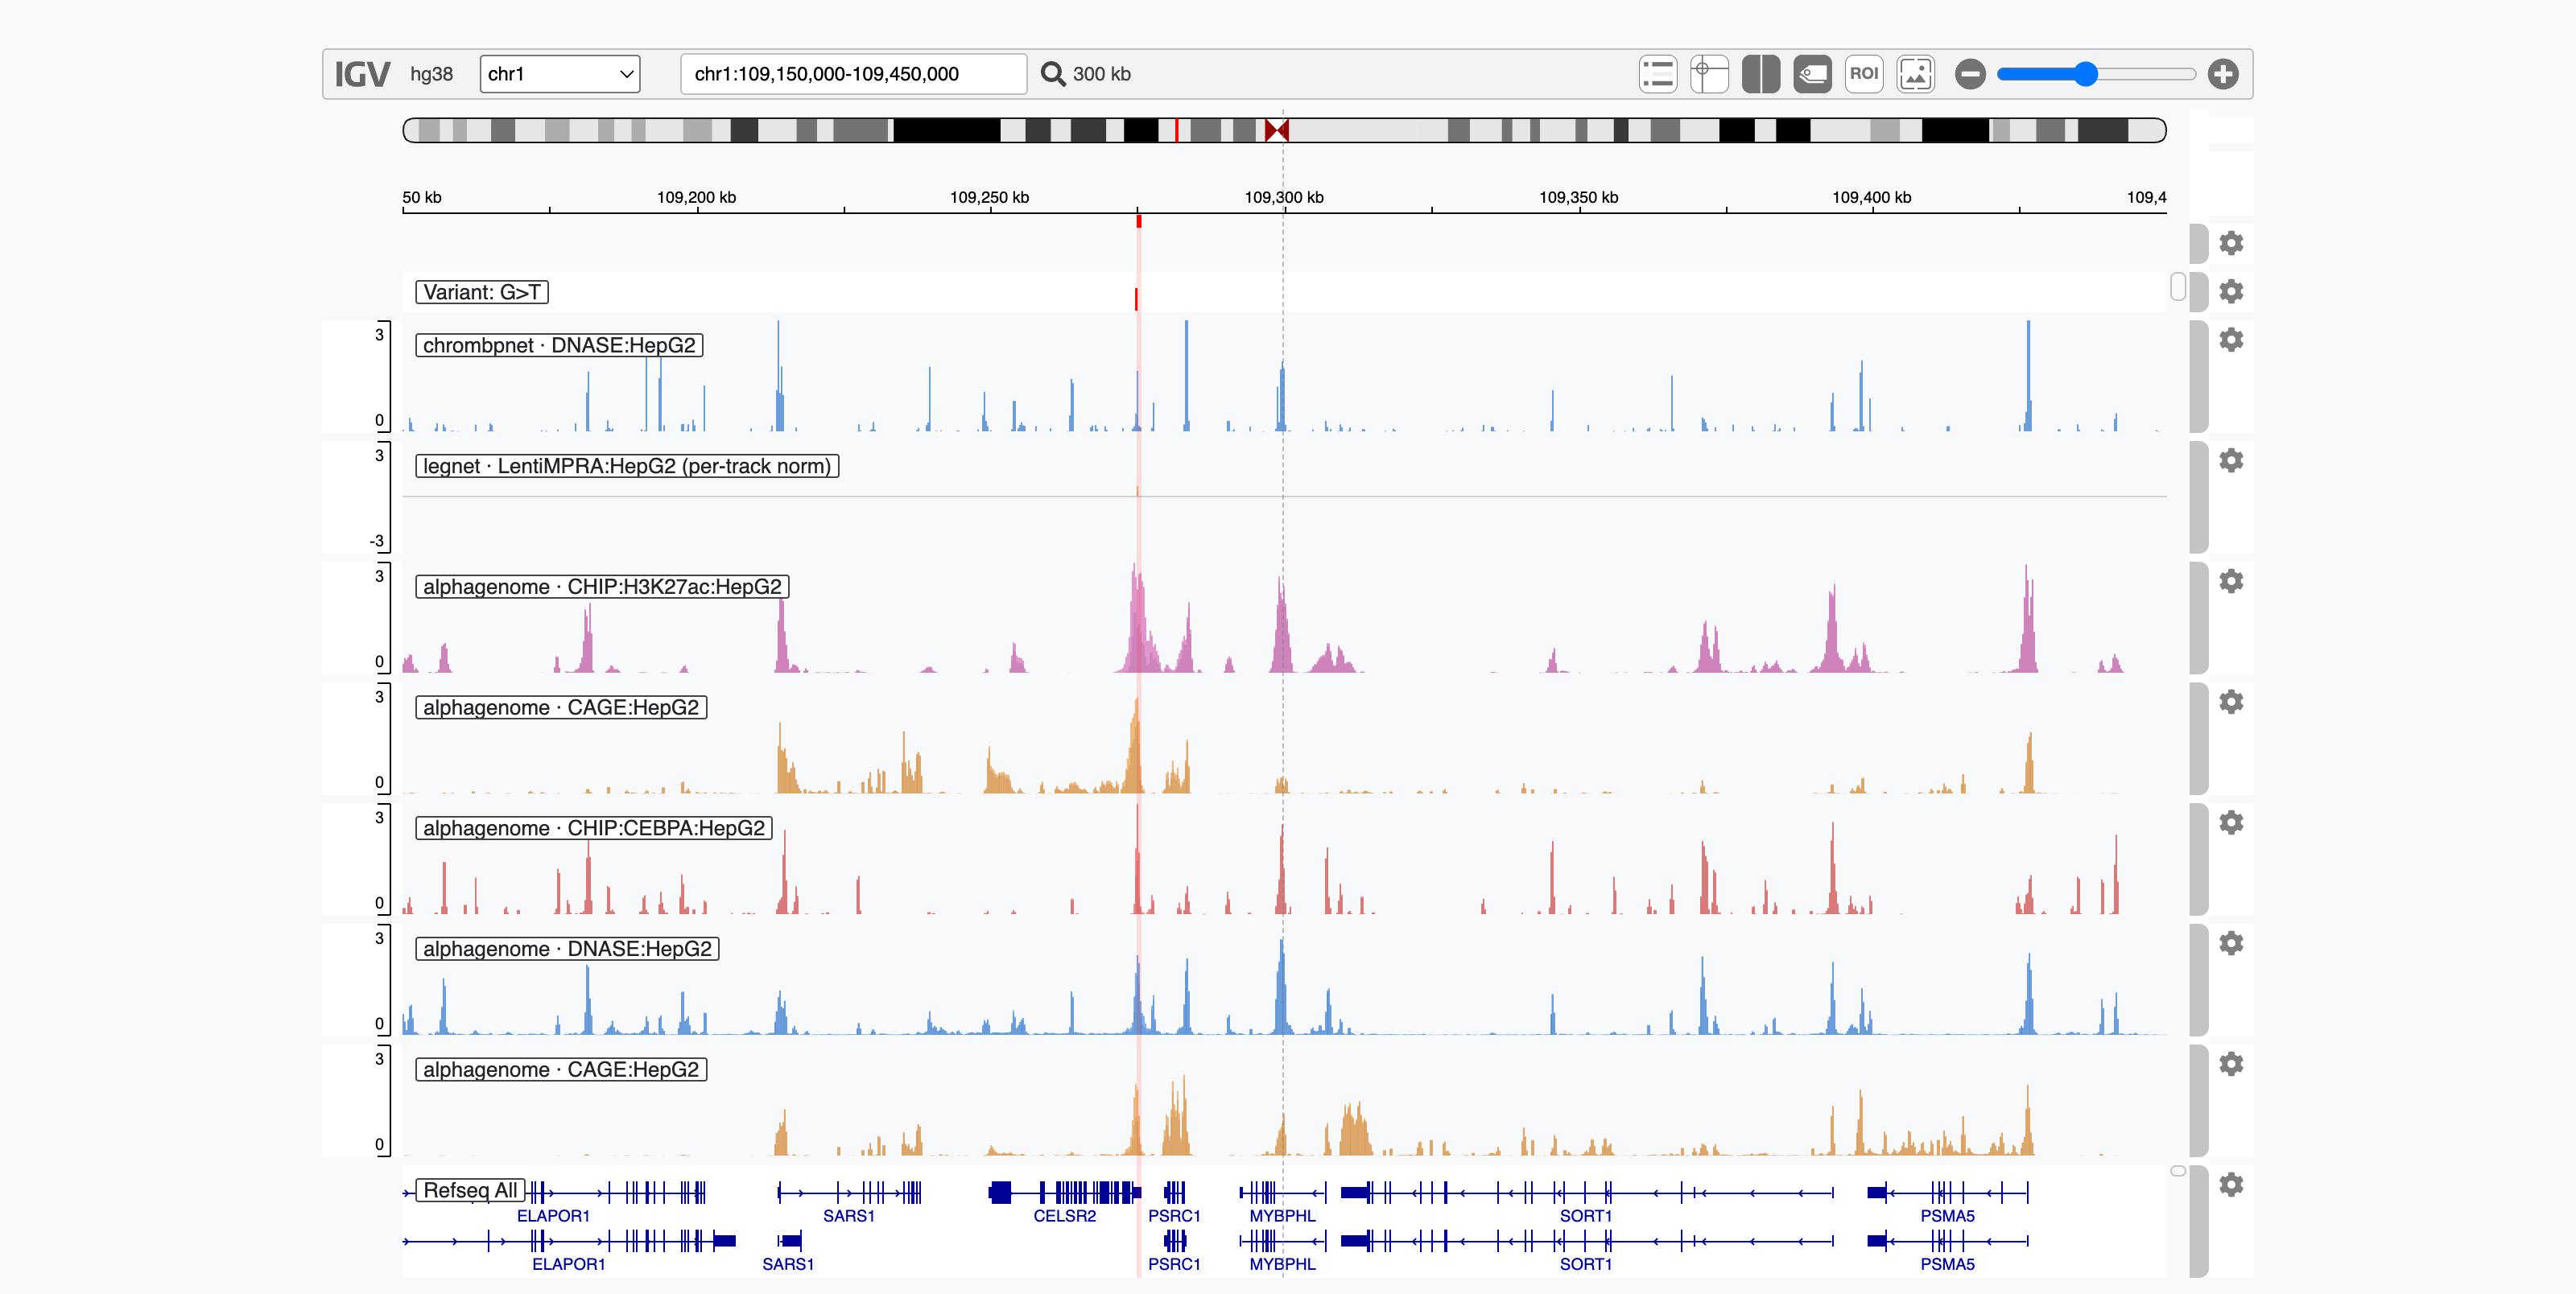
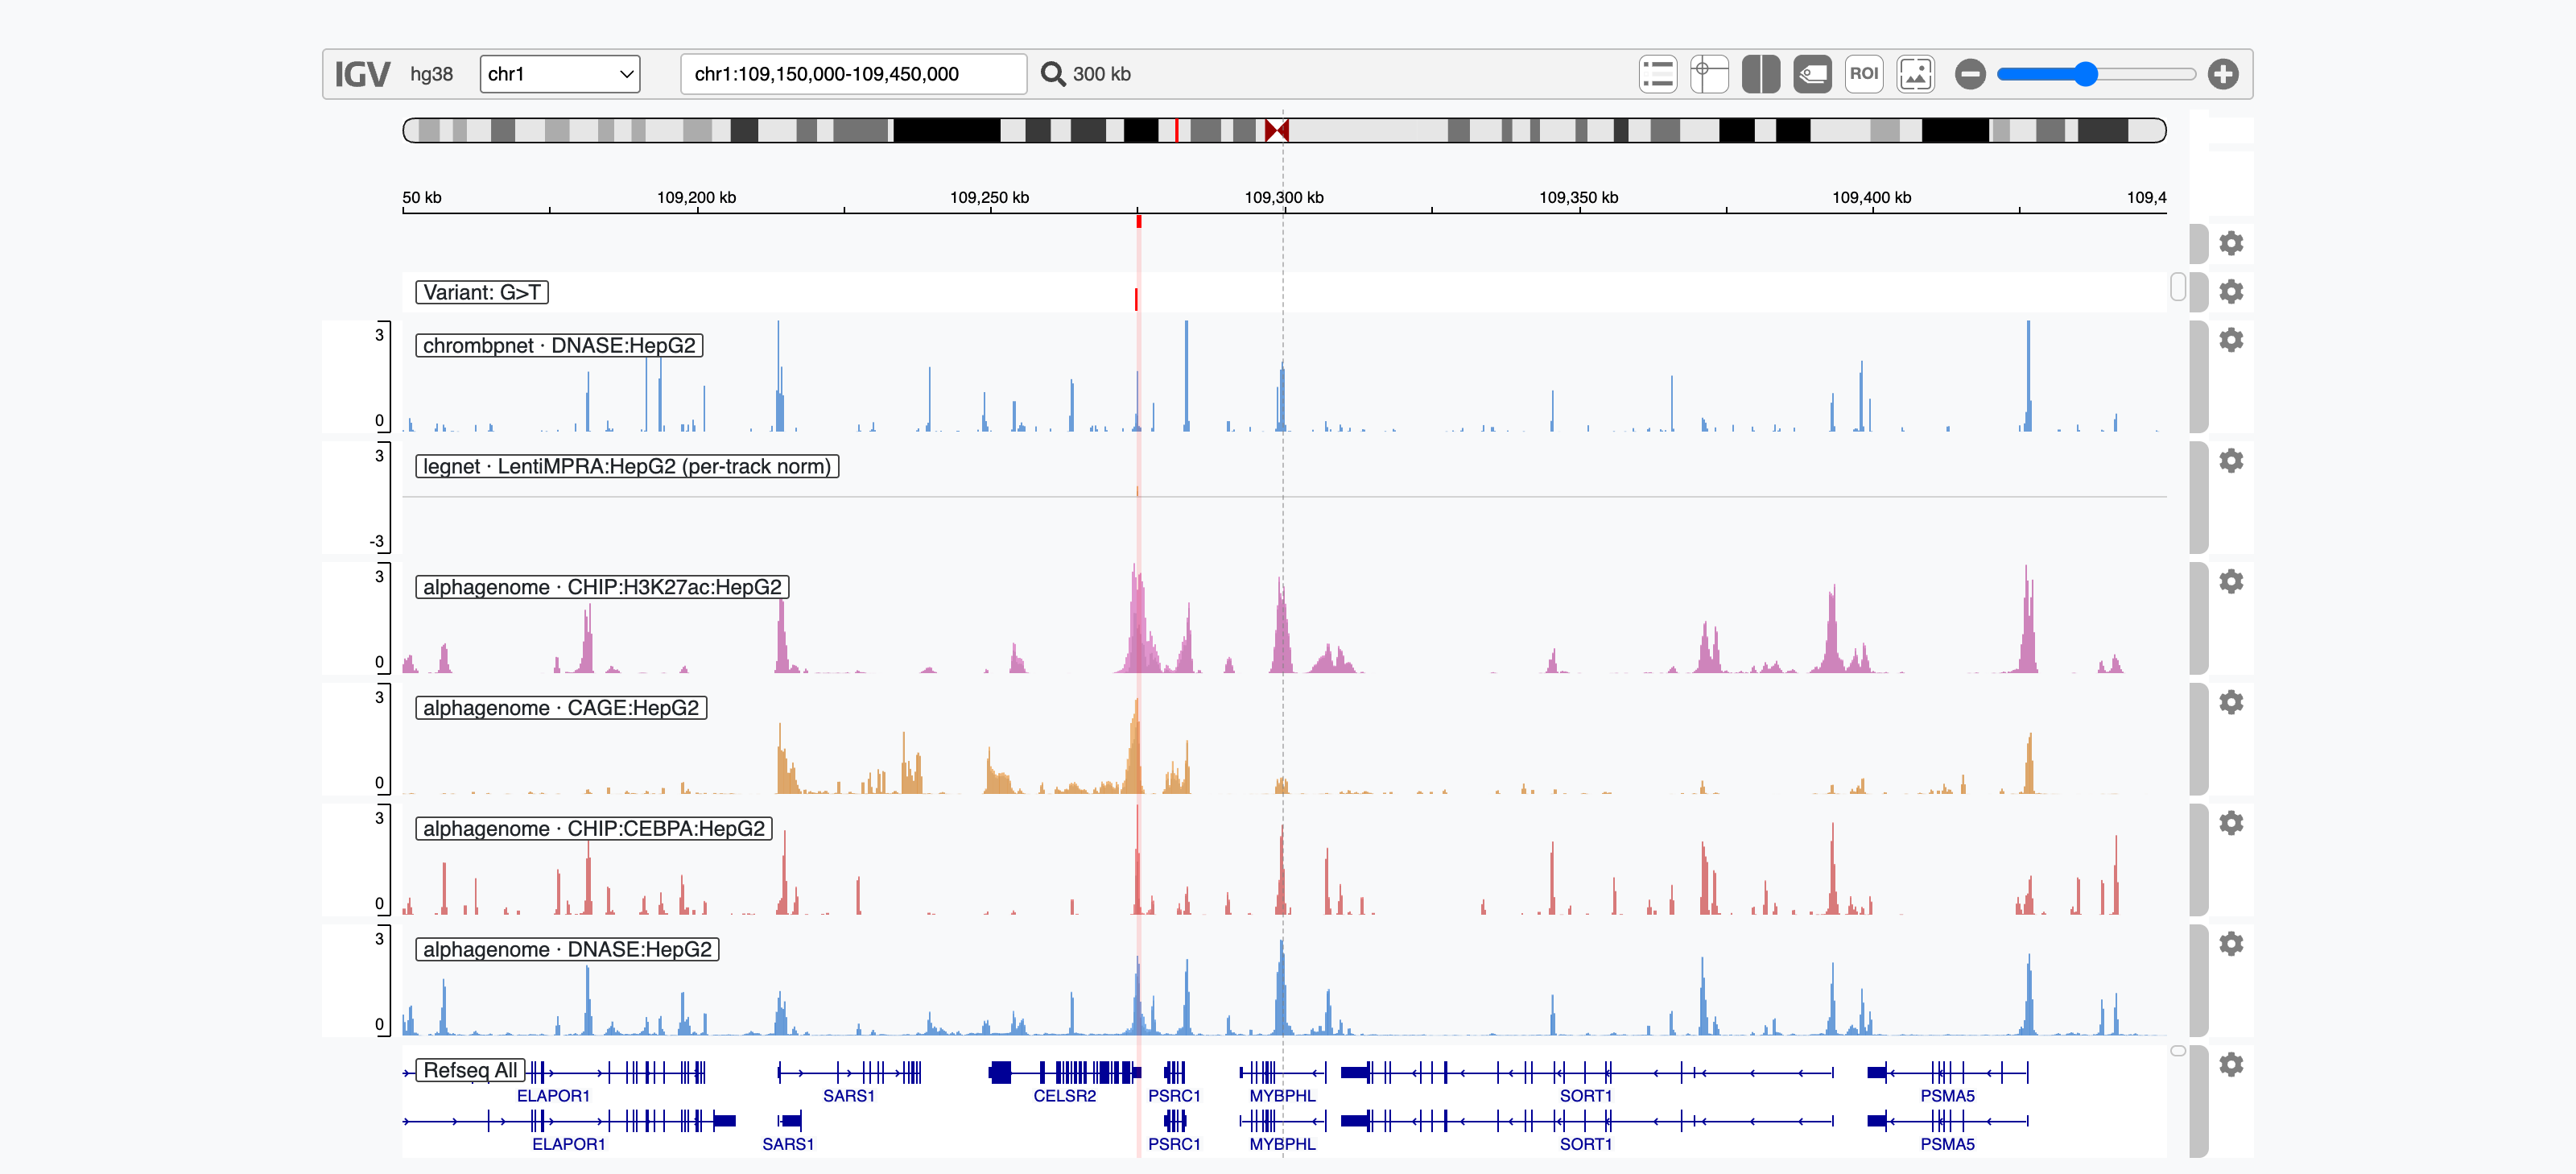
Critical-review pass: dedup Fig 3 vs table, fix figure defects, tighten prose (#1)
Applied two adversarial review workflows (figure quality, prose flow,
cross-file consistency) over the SORT1 + rs9504151 worked examples.

Figures:
- Fig 1 (architecture): badge 23->24 tools; re-rendered from the committed
  fig_architecture.html so it reproduces from source (was a one-off export).
- Fig 3 (comparison): cropped 55% baked-in trailing whitespace (3588->1660px);
  AlphaGenome CEBPA +2.7->+2.8 to match the reproduced value and Fig 2.
- Fig 4 (browser): excised a duplicate alphagenome-CAGE:HepG2 track the
  consolidated report listed twice; track set now matches the caption.

Prose / consistency:
- Removed the "Predictions next to ground truth" markdown table (it duplicated
  Fig 3 verbatim); repointed prose to Figure 3, no renumbering.
- Compressed both "Reproducibility note" blockquotes (commit/PR detail -> linked
  report; honest disclosures kept).
- Dropped the triplicated magnitude caveat from Limitations; removed orphaned
  "n=1 entries" references left by the table removal.
- Added Jiecong Lin to the citation byline; claims (Fig 5)->(Fig 6);
  README "56 CEU SNV proxies"->"56 CEU proxies".

Verified: no large white-space gaps in the rendered page; all figure captions
match their images; 24 tools / CEBPA +2.8 / author list consistent across
article, figures, and claims.yaml.

diff --git a/figures/fig2_sort1.html b/figures/fig2_sort1.html
@@ -91,7 +91,7 @@
       </tr>
       <tr>
         <td class="layer">TF binding — C/EBP <small>ChIP-TF · HepG2</small></td>
-        <td><span class="val up">+2.5</span> BPNet (CEBPB) &nbsp;·&nbsp; <span class="val up">+2.7</span> AlphaGenome (CEBPA) <span class="src">log2FC</span></td>
+        <td><span class="val up">+2.5</span> BPNet (CEBPB) &nbsp;·&nbsp; <span class="val up">+2.8</span> AlphaGenome (CEBPA) <span class="src">log2FC</span></td>
         <td><span class="pill up">gains site ↑</span></td><td></td>
       </tr>
       <tr>
@@ -122,7 +122,7 @@
       <div class="head">What the predictions say</div>
       <ul>
         <li>Minor (T) allele <b>opens chromatin</b> in liver (HepG2): ChromBPNet <span class="n">+1.24</span>, AlphaGenome <span class="n">+1.34</span>.</li>
-        <li><b>Gains a C/EBP binding site</b>: BPNet CEBPB head <span class="n">+2.5</span>, AlphaGenome CEBPA <span class="n">+2.7</span>.</li>
+        <li><b>Gains a C/EBP binding site</b>: BPNet CEBPB head <span class="n">+2.5</span>, AlphaGenome CEBPA <span class="n">+2.8</span>.</li>
         <li><b>Gains the H3K27ac</b> active-enhancer mark: AlphaGenome <span class="n">+1.27</span>.</li>
         <li><b>eRNA at the enhancer</b>: AlphaGenome CAGE <span class="n">+1.52</span>.</li>
         <li><b>Single-fragment MPRA at the SNP is up</b>: LegNet <span class="n">+0.30</span>, alt &gt; ref.</li>

diff --git a/figures/fig_architecture.html b/figures/fig_architecture.html
@@ -4,7 +4,7 @@
   (fig_architecture.dc.html) and flattened to a standalone, self-contained HTML so it
   renders without the design runtime. Assets: logo_burst.png, logo_wordmark.png.
   Render:  python /path/to/shot.py fig_architecture.html fig_architecture.png 1600
-  Fixed 1600x1080 canvas; all seven oracles incl. EPInformer-seq; 23-tool MCP layer.
+  Fixed 1600x1080 canvas; all seven oracles incl. EPInformer-seq; 24-tool MCP layer.
 -->
 <html lang="en">
 <head>
@@ -38,7 +38,7 @@
       <span style="display:inline-block; width:11px; height:11px; border-radius:50%; background:#fff; box-shadow:0 0 12px rgba(255,255,255,0.9);"></span>
       <span style="font-size:25px; font-weight:800; letter-spacing:0.2px;">Agentic AI orchestration</span>
       <span style="font-size:13px; font-weight:800; letter-spacing:0.6px; background:rgba(255,255,255,0.20); border:1px solid rgba(255,255,255,0.35); border-radius:30px; padding:4px 13px;">MCP&nbsp;SERVER</span>
-      <span style="font-size:13px; font-weight:800; letter-spacing:0.6px; background:#fff; color:#2B5FA0; border-radius:30px; padding:4px 13px;">23&nbsp;TOOLS</span>
+      <span style="font-size:13px; font-weight:800; letter-spacing:0.6px; background:#fff; color:#2B5FA0; border-radius:30px; padding:4px 13px;">24&nbsp;TOOLS</span>
       <span style="margin-left:auto; font-size:14.5px; font-weight:600; color:rgba(255,255,255,0.92);">Plain language in &nbsp;→&nbsp; comparable, normalised results out</span>
     </div>
     <div style="display:flex; gap:12px; margin-top:15px;">

diff --git a/article/2026-006_chorus.md b/article/2026-006_chorus.md
@@ -147,7 +147,7 @@ The strongest signal came from the **C/EBP** family. We gave no prior about whic
 
 The top hit was **SORT1**, with increased predicted promoter and transcript signal in HepG2.
 
-This step is worth pausing on, because it is the one place where the choice of oracle is not optional. As noted above, rs12740374 sits between CELSR2 and PSRC1, and the SORT1 promoter is on the order of 100 kb away (≈118 kb to the nearest SORT1 TSS in hg38). That distance is far outside the windows of the short-range oracles: ChromBPNet sees about 2 kb and LegNet 200 bp, so neither can connect this variant to SORT1 at all, and even Enformer's roughly 115 kb output window is marginal here (118 kb is just past its 114.7 kb output window). Only a long-context model can span both the variant and the gene, so the gene-level readout comes from AlphaGenome, whose 1 Mb window comfortably covers SORT1. This is exactly why, in the multi-oracle table below, ChromBPNet and LegNet read "not scored" for the gene layer: not because they failed, but because the question is outside what they were built to see.
+This step is worth pausing on, because it is the one place where the choice of oracle is not optional. As noted above, rs12740374 sits between CELSR2 and PSRC1, and the SORT1 promoter is on the order of 100 kb away (≈118 kb to the nearest SORT1 TSS in hg38). That distance is far outside the windows of the short-range oracles: ChromBPNet sees about 2 kb and LegNet 200 bp, so neither can connect this variant to SORT1 at all, and even Enformer's roughly 115 kb output window is marginal here (118 kb is just past its 114.7 kb output window). Only a long-context model can span both the variant and the gene, so the gene-level readout comes from AlphaGenome, whose 1 Mb window comfortably covers SORT1. This is exactly why, in the multi-oracle readout in Figure 3, ChromBPNet and LegNet read "not scored" for the gene layer: not because they failed, but because the question is outside what they were built to see.
 
 At that point the mechanistic story had assembled itself through conversation: the minor allele opens chromatin in liver cells, creates a C/EBP site, and upregulates *SORT1*. To make the result robust rather than a single model's opinion, we then scored the variant across three independent oracles, each contributing only the layers it can actually measure: ChromBPNet for local accessibility, LegNet for MPRA reporter activity, and AlphaGenome as a generalist covering ChIP, histones, CAGE, and, thanks to its 1 Mb window, the distal *SORT1* promoter.
 
@@ -157,28 +157,11 @@ At that point the mechanistic story had assembled itself through conversation: t
 
 ### Predictions next to ground truth
 
-The most useful way to read this is side by side. The left column is what Chorus predicted in silico; the right is what the original study measured at the bench.
+Figure 3 places prediction and ground truth side by side: what Chorus predicted in silico against what the original study measured at the bench. Read top to bottom, the agreement is striking. Without any prior assumptions, the oracles recover the cell type, the transcription factor, the chromatin and histone changes, the reporter direction, and the target gene, all of which originally took dedicated assays to establish.
 
-| Chorus prediction (in silico) | Experimental ground truth (Musunuru et al., 2010) |
-|---|---|
-| Minor (T) allele **opens chromatin** in liver (HepG2): ChromBPNet +1.24, AlphaGenome +1.34 | The variant lies in a **liver enhancer**; the minor allele creates the functional site |
-| **Gains a C/EBP binding site**: BPNet (CEBPB) +2.5, AlphaGenome (CEBPA) +2.7 | Minor allele **creates a C/EBP site**, confirmed by EMSA and ChIP |
-| **Gains the H3K27ac** active-enhancer mark: AlphaGenome +1.27 | Consistent with an active liver enhancer |
-| **eRNA at the enhancer**: AlphaGenome CAGE +1.52 | Consistent with active enhancer transcription |
-| **Single-fragment MPRA at the SNP is up**: LegNet +0.30, alt > ref | Matches the original luciferase reporter (alt > ref) |
-| ***SORT1* promoter and transcript rise**, but only a small amount, well under 2-fold (AlphaGenome) | ***SORT1* more than 12-fold higher** in minor-allele-homozygous human liver; lower hepatic VLDL secretion; plasma LDL-C down up to 16 mg/dL (two copies); MI risk down about 40% |
+> **Reproducibility note.** ChromBPNet's accessibility number is scored on its native 2,114 bp window: the article reports **+1.24**, and a fresh re-run on current chorus gives **+1.37** (both within tolerance). On chorus `main` the conversational path does this automatically — just ask for the variant, no manual window needed. The underlying commit/PR detail lives in the linked reproduction report.
 
-Read top to bottom, the agreement is striking. Without any prior assumptions, the oracles recover the cell type, the transcription factor, the chromatin and histone changes, the reporter direction, and the target gene, all of which originally took dedicated assays to establish.
-
-> **Reproducibility note (ChromBPNet accessibility number).** The **+1.24** figure is scored on
-> ChromBPNet's full 2,114 bp input window centered on the variant; a fresh re-run on current chorus
-> gives **+1.37** (both within the reported tolerance). Either way the number comes straight from the
-> conversational path on chorus **main ≥ commit `9f21266`** — just ask for the variant and ChromBPNet
-> scores it on its native window. (PR #93 fixed an earlier window-collapse bug that made the
-> conversational path under-report fixed-input oracles as ≈ +0.32; AlphaGenome was always unaffected.
-> On main, no manual window is needed.)
-
-The honest caveat is in the last row. The models get the **direction** of the *SORT1* effect right at every layer, but they **underestimate the magnitude** badly: a small predicted increase, well under 2-fold, against the more than 12-fold measured in liver. Several of the supporting layers also rest on a single oracle (the n=1 entries in the table), so they are suggestive rather than independently confirmed. The mechanism is reproduced; the effect size is not, and that gap is exactly the kind of thing you would still take to a reporter assay.
+The honest caveat is the magnitude of the *SORT1* effect itself. The models get its **direction** right at every layer, but **underestimate the size** badly: a small predicted increase, well under 2-fold, against the more than 12-fold measured in liver. Several of the supporting layers also rest on a single oracle, so they are suggestive rather than independently confirmed. The mechanism is reproduced; the effect size is not, and that gap is exactly the kind of thing you would still take to a reporter assay.
 
 ---
 
@@ -212,16 +195,7 @@ Both routes point to ATF4, matching the Sniff preprint's conclusion. The value i
 
 ![In-silico saturation mutagenesis around rs9504151 in three oracles.](../figures/fig_rs9504151_ism.png "Figure 6. In-silico saturation mutagenesis (score_ism) around rs9504151 in three independent oracles — LegNet (HepG2), AlphaGenome (lung fibroblast), and ChromBPNet (IMR-90). Each letter's height is how much mutating that reference base changes the prediction; all three converge on the same ATF4 motif (TGATGCAA) centred on the variant (dashed line).")
 
-> **Reproducibility note (Analysis B).** This analysis is reproducible via
-> `fine_map_causal_variant` with an LDlink token, but it depends on two correctness fixes
-> merged to chorus main (PRs #92/#93): (a) LD proxies must be scored on their *own* genome
-> alleles (oriented to the reference), and (b) each variant must be scored on the oracle's
-> full input window. With those, a fresh re-run places **rs9504151 at rank 1 of the
-> 56-variant credible set in BOTH oracles** — AlphaGenome (lung-fibroblast tracks; composite
-> 0.995, alt-allele effect −1.363) and ChromBPNet lung-fibroblast (IMR-90; composite 0.896,
-> effect −0.985) — with zero allele-mismatch warnings. The r²≈0.93 neighbour rs62384944
-> falls to rank 4 (AlphaGenome) / 5 (ChromBPNet). (LegNet has no lung-fibroblast model, so
-> its ranking is cell-type-mismatched and is not used to adjudicate.)
+> **Reproducibility note.** This analysis runs via `fine_map_causal_variant` with an LDlink token on current chorus `main`. A fresh re-run places **rs9504151 at rank 1 of the 56-variant credible set in both cell-type-matched oracles** — AlphaGenome and ChromBPNet (IMR-90 lung fibroblast) — with the r²≈0.93 neighbour rs62384944 a few ranks below. LegNet has no lung-fibroblast model, so it is cell-type-mismatched and is not used to adjudicate. The composite scores, allele-orientation handling, and the underlying correctness fixes are documented in the linked reproduction report.
 
 ---
 
@@ -239,10 +213,10 @@ Both routes point to ATF4, matching the Sniff preprint's conclusion. The value i
 
 Chorus is an orchestration and interpretation layer, not an oracle of truth. A few caveats are worth stating plainly:
 
-- **Magnitude is unreliable.** As the *SORT1* example shows, the models recover direction and mechanism far better than effect size. The predicted *SORT1* change was well under 2-fold against a measured effect above 12-fold. Treat predicted fold changes as ordinal, not quantitative.
+- **Magnitude is unreliable.** As the *SORT1* example shows, the models recover direction and mechanism far better than effect size. Treat predicted fold changes as ordinal, not quantitative.
 - **You can only test what the models cover.** A variant can be assessed only in the cell types and assays present in the oracles. In the rs9504151 example the matched evidence came from a lung-fibroblast accessibility model, while the MPRA support came from non-matching lines, so it counts for less. Missing the relevant cell type can mean missing the effect entirely. This is the single most important limitation to keep in mind.
 - **Distal targets need long context.** Linking a variant to a gene requires an oracle whose window spans both. Short-range models such as ChromBPNet and LegNet cannot answer gene-level questions, by design rather than by failure, as the 100 kb gap to *SORT1* illustrates.
-- **Single-oracle layers need care.** When only one model scores a layer (the n=1 entries), that layer is a hypothesis, not a consensus. Convergence across the oracles that can see it is what earns confidence.
+- **Single-oracle layers need care.** When only one model scores a layer, that layer is a hypothesis, not a consensus. Convergence across the oracles that can see it is what earns confidence.
 - **LD is not always resolvable in silico.** Functional prediction narrows a credible set, but very high LD with parallel signatures can still leave residual ambiguity, and MPRA or other assays remain the arbiter.
 - **Predictions are a starting point.** The right mental model is design, then score, then validate, not score then conclude.
 
@@ -340,6 +314,6 @@ Through that layer, models can be selected, run, compared, and interpreted in na
 
 ### Cite this post
 
-Dmitry Penzar, Lorenzo Ruggeri, Rosalba Giugno, Luca Pinello.
+Dmitry Penzar, Lorenzo Ruggeri, Jiecong Lin, Rosalba Giugno, Luca Pinello.
 "Chorus: chatting with genomic oracles." *Genomics × AI Blog*,
 16 June 2026. <https://genomicsxai.github.io/blogs/2026-006/>.

diff --git a/figures/README.md b/figures/README.md
@@ -4,11 +4,11 @@ All figures are consistent with `../reproduce/claims.yaml` and the article prose
 
 | File | Figure | How it is made | Numbers |
 |---|---|---|---|
-| `fig_architecture.png` | Fig 1 — Chorus's seven oracles behind one interface + an agentic (MCP) layer | Authors' high-quality export from the Claude Design project; `fig_architecture.html` + `logo_burst.png`/`logo_wordmark.png` are the near-identical editable source | windows/tool-count per `claims.yaml` F1/F3/F4 |
+| `fig_architecture.png` | Fig 1 — Chorus's seven oracles behind one interface + an agentic (MCP) layer | Rendered from the self-contained `fig_architecture.html` (authored in the Claude Design project; assets `logo_burst.png`/`logo_wordmark.png`); the orchestration badge reads **24 tools** | windows/tool-count per `claims.yaml` F1/F3/F4 |
 | `fig_sort1_tf_scan.png` | Fig 2 — SORT1 TF-ChIP scan (no prior; C/EBP family tops) | `regenerate_analysis_figures.py tf_scan` from an AlphaGenome `discover_variant_effects` run (HepG2) | claims A3/A9 (CEBPB +3.1, CEBPA +2.8) |
-| `fig_sort1_comparison.png` | Fig 3 — rs12740374 per-layer predictions next to the Musunuru (2010) ground truth | Rendered from `fig2_sort1.html` (chorus house style) | Analysis-A claims (A1–A8) |
-| `fig_sort1_browser.png` | Fig 4 — every oracle's signal on one normalised genome-browser axis across the SORT1 locus | Screenshot of the chorus multi-oracle report's IGV browser, zoomed to chr1:109.15–109.45 Mb (pure chorus output) | the per-track signals behind Analysis A |
-| `fig_rs9504151_finemap.png` | Fig 5 — rs9504151 causal-variant prioritisation (Top-N table) | `regenerate_analysis_figures.py finemap` from `fetch_ld_variants` + `prioritize_causal_variants` (AlphaGenome lung-fibroblast tracks, 56 CEU SNV proxies) | claims B2 (rs9504151 #1; rs62384944 → rank 4) |
+| `fig_sort1_comparison.png` | Fig 3 — rs12740374 per-layer predictions next to the Musunuru (2010) ground truth | Rendered from `fig2_sort1.html` (chorus house style), cropped to content | Analysis-A claims (A1–A8) |
+| `fig_sort1_browser.png` | Fig 4 — every oracle's signal on one normalised genome-browser axis across the SORT1 locus | Screenshot of the chorus multi-oracle report's IGV browser, zoomed to chr1:109.15–109.45 Mb (chorus output; one duplicate `CAGE:HepG2` track the consolidated report listed twice was removed so the track set matches the caption) | the per-track signals behind Analysis A |
+| `fig_rs9504151_finemap.png` | Fig 5 — rs9504151 causal-variant prioritisation (Top-N table) | `regenerate_analysis_figures.py finemap` from `fetch_ld_variants` + `prioritize_causal_variants` (AlphaGenome lung-fibroblast tracks, 56 CEU proxies) | claims B2 (rs9504151 #1; rs62384944 → rank 4) |
 | `fig_rs9504151_ism.png` | Fig 6 — rs9504151 multi-oracle ISM motif logos (converge on ATF4) | `regenerate_analysis_figures.py ism` from `score_ism`/`saturation_mutagenesis` on LegNet + AlphaGenome + ChromBPNet | claims B6 (ATF4 motif TGATGCAA) |
 
 **Analysis panels (Figs 2, 5, 6)** are regenerated from Chorus by `scripts/regenerate_analysis_figures.py` (in the chorus repo) reading the JSON outputs of `discover_variant_effects` (TF scan), `prioritize_causal_variants` (fine-map), and the `saturation_mutagenesis` / `score_ism` (ISM logos via logomaker). The ISM logos are model-independent evidence: three oracles trained on different assays all converge on the same ATF4 motif.